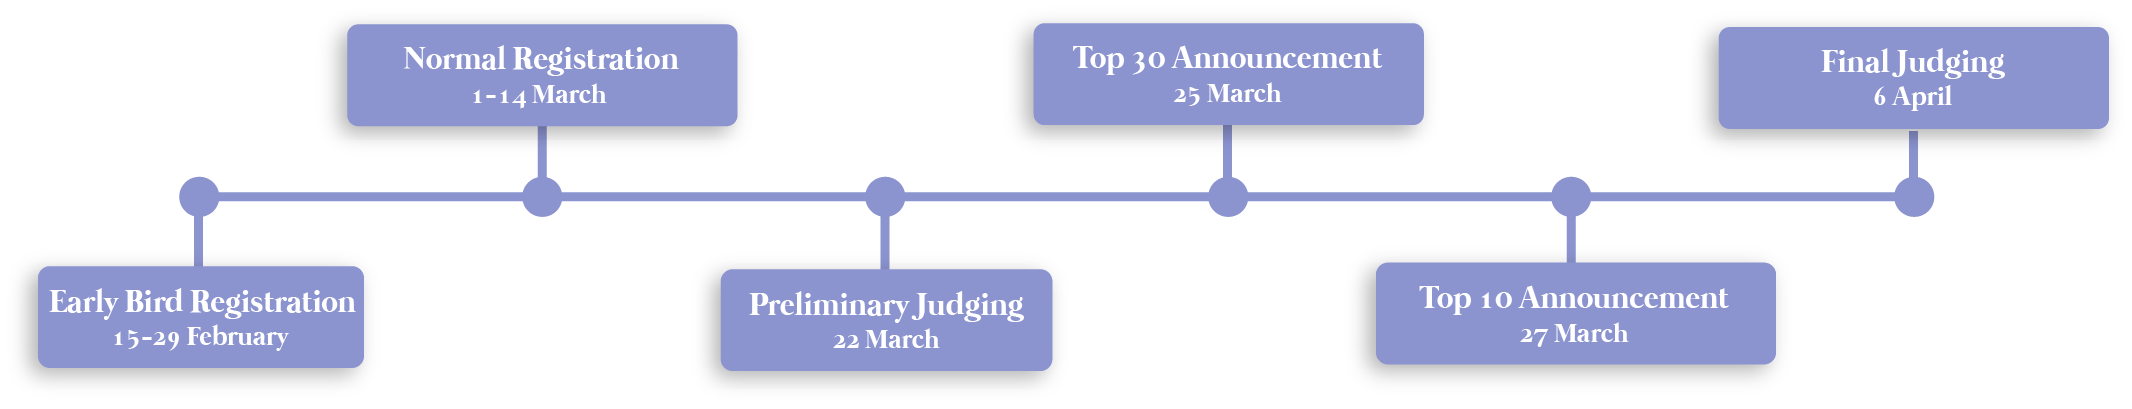
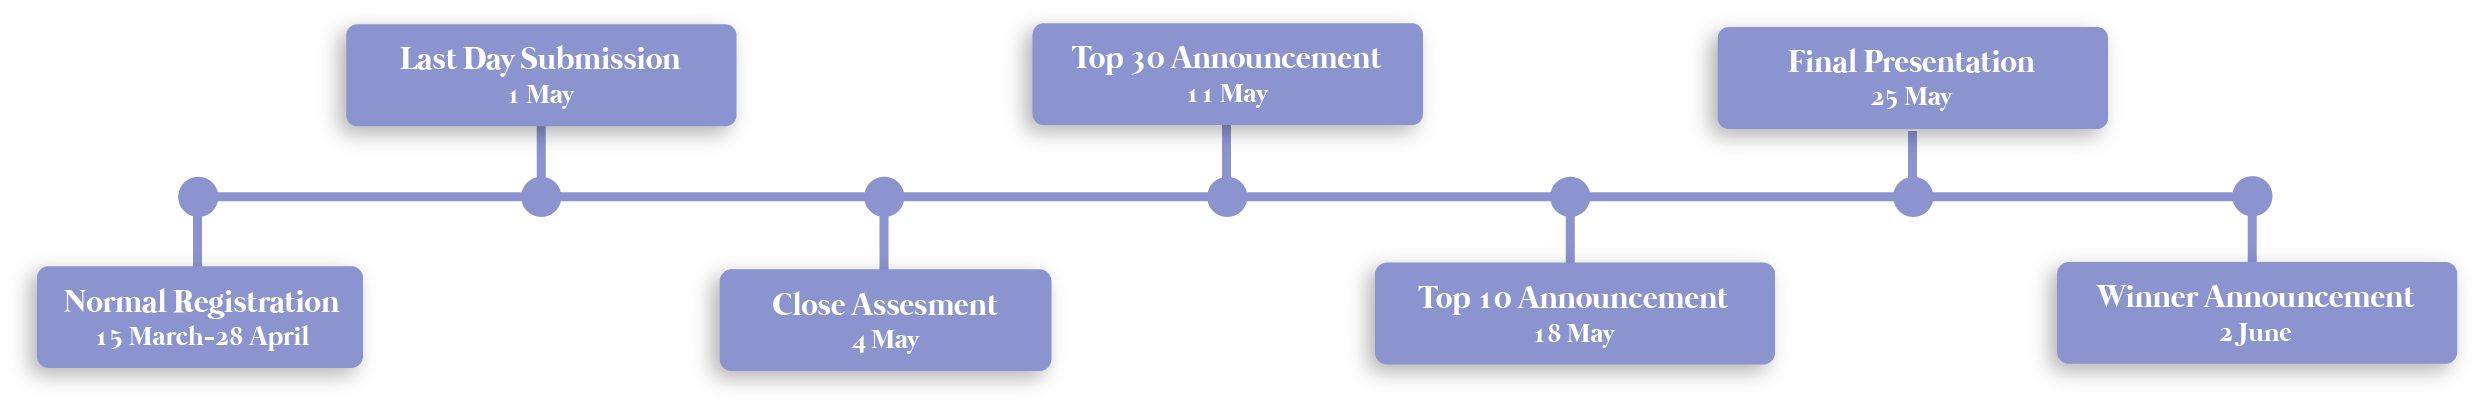
change timeline

diff --git a/timeline.php b/timeline.php
@@ -24,8 +24,10 @@
         class Detos {
             constructor() {
                 // list tanggalnya timeline
-                this.datess = ["Feb 15, 2024 0:00:00", "Feb 29, 2024 0:00:00", "Mar 1, 2024 0:00:00", "Mar 14, 2024 0:00:00", "Mar 15, 2024 0:00:00", "Mar 16, 2024 0:00:00", "Mar 20, 2024 0:00:00", "Mar 22, 2024 0:00:00", "Mar 23, 2024 0:00:00", "Mar 25, 2024 0:00:00", "Mar 26, 2024 0:00:00", "Mar 27, 2024 0:00:00", "Mar 28, 2024 0:00:00", "Mar 30, 2024 0:00:00", "Apr 4, 2024 0:00:00", "Apr 5, 2024 0:00:00", "Apr 6, 2024 0:00:00", "Apr 28, 2024 0:00:00", "May 5, 2024 0:00:00", "May 6, 2024 0:00:00", "May 18, 2024 0:00:00"];
-                this.eventss = ["ARCHFEST, ASF, GADA, SANXLKTI Early Bird Registration and LKTI's Abstract Submission", "ARCHFEST, ASF, GADA, SANxLKTI Early Bird Registration Closing", "ARCHFEST, ASF, GADA, SANxLKTI Normal Registration", "ARCHFEST, ASF, GADA, SANxLKTI Early Bird Registration Closing", "GADA's Preliminary Judging", "ARCHFEST's Preliminary Judging and SAN's Seminar session", "ARCHFEST's Top 15 Announcement", "ARCHFEST's Top 5 Announcement and ASF's Preliminary Judging", "GADA's Top 20 Announcement", "ASF's Top 30 Announcement", "GADA's Top 5 Announcement", "ASF's Top 10 Announcement", "LKTI's Abstract Submission Closing and LKTI's Normal Registration Closing", "ARCHFEST's and GADA's Final Judging and LKTI's Preliminary Judging", "GADA's Top 3 Announcement", "LKTI's Preliminary Judging End", "ASF's Final Judging and SANxLKTI's Passing Abstract Announcement", "SANxLKTI's Full Paper Preliminary Judging", "SANxLKTI's Full Paper Preliminary Judging End", "SANxLKTI's Finalist announcement", "SANxLKTI's Final Judging"];
+                // this.datess = ["Feb 15, 2024 0:00:00", "Feb 29, 2024 0:00:00", "Mar 1, 2024 0:00:00", "Mar 14, 2024 0:00:00", "Mar 15, 2024 0:00:00", "Mar 16, 2024 0:00:00", "Mar 20, 2024 0:00:00", "Mar 22, 2024 0:00:00", "Mar 23, 2024 0:00:00", "Mar 25, 2024 0:00:00", "Mar 26, 2024 0:00:00", "Mar 27, 2024 0:00:00", "Mar 28, 2024 0:00:00", "Mar 30, 2024 0:00:00", "Apr 4, 2024 0:00:00", "Apr 5, 2024 0:00:00", "Apr 6, 2024 0:00:00", "Apr 28, 2024 0:00:00", "May 5, 2024 0:00:00", "May 6, 2024 0:00:00", "May 18, 2024 0:00:00"];
+                this.datess = ["Mar 30, 2024 0:00:00", "Apr 6, 2024 0:00:00", "Apr 28, 2024 0:00:00", "Apr 28, 2024 0:00:00", "May 1, 2024 0:00:00"];
+                // this.eventss = ["ARCHFEST, ASF, GADA, SANXLKTI Early Bird Registration and LKTI's Abstract Submission", "ARCHFEST, ASF, GADA, SANxLKTI Early Bird Registration Closing", "ARCHFEST, ASF, GADA, SANxLKTI Normal Registration", "ARCHFEST, ASF, GADA, SANxLKTI Early Bird Registration Closing", "GADA's Preliminary Judging", "ARCHFEST's Preliminary Judging and SAN's Seminar session", "ARCHFEST's Top 15 Announcement", "ARCHFEST's Top 5 Announcement and ASF's Preliminary Judging", "GADA's Top 20 Announcement", "ASF's Top 30 Announcement", "GADA's Top 5 Announcement", "ASF's Top 10 Announcement", "LKTI's Abstract Submission Closing and LKTI's Normal Registration Closing", "ARCHFEST's and GADA's Final Judging and LKTI's Preliminary Judging", "GADA's Top 3 Announcement", "LKTI's Preliminary Judging End", "ASF's Final Judging and SANxLKTI's Passing Abstract Announcement", "SANxLKTI's Full Paper Preliminary Judging", "SANxLKTI's Full Paper Preliminary Judging End", "SANxLKTI's Finalist announcement", "SANxLKTI's Final Judging"];
+                this.eventss = ["LKTI's Preliminary Judging", "LKTI Passing Abstract Announcement", "GADA & Archfest Last Day Subbmission, and LKTI Full paper Preliminary Judging", "ASF Last Day Subbmission"];
             }
             latest() {
                 return this.datess[counter];
